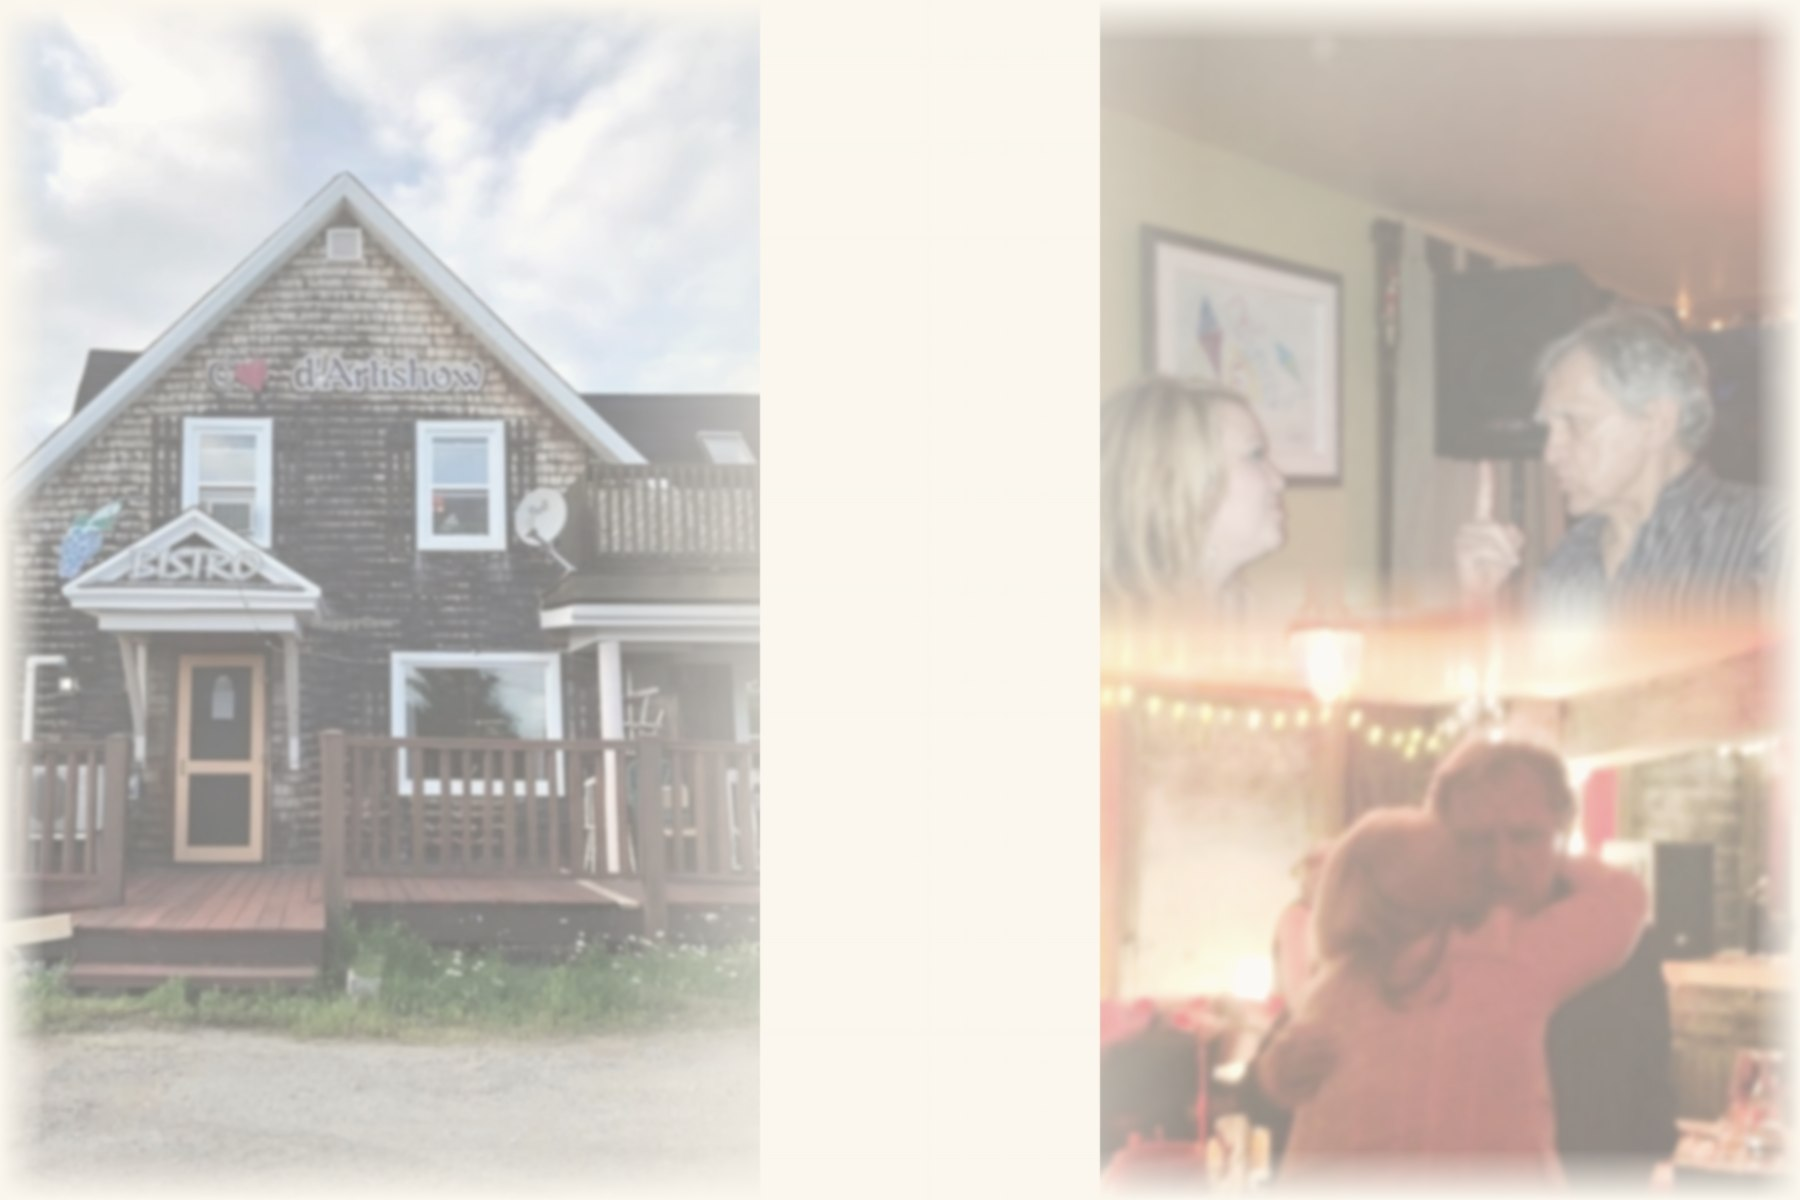
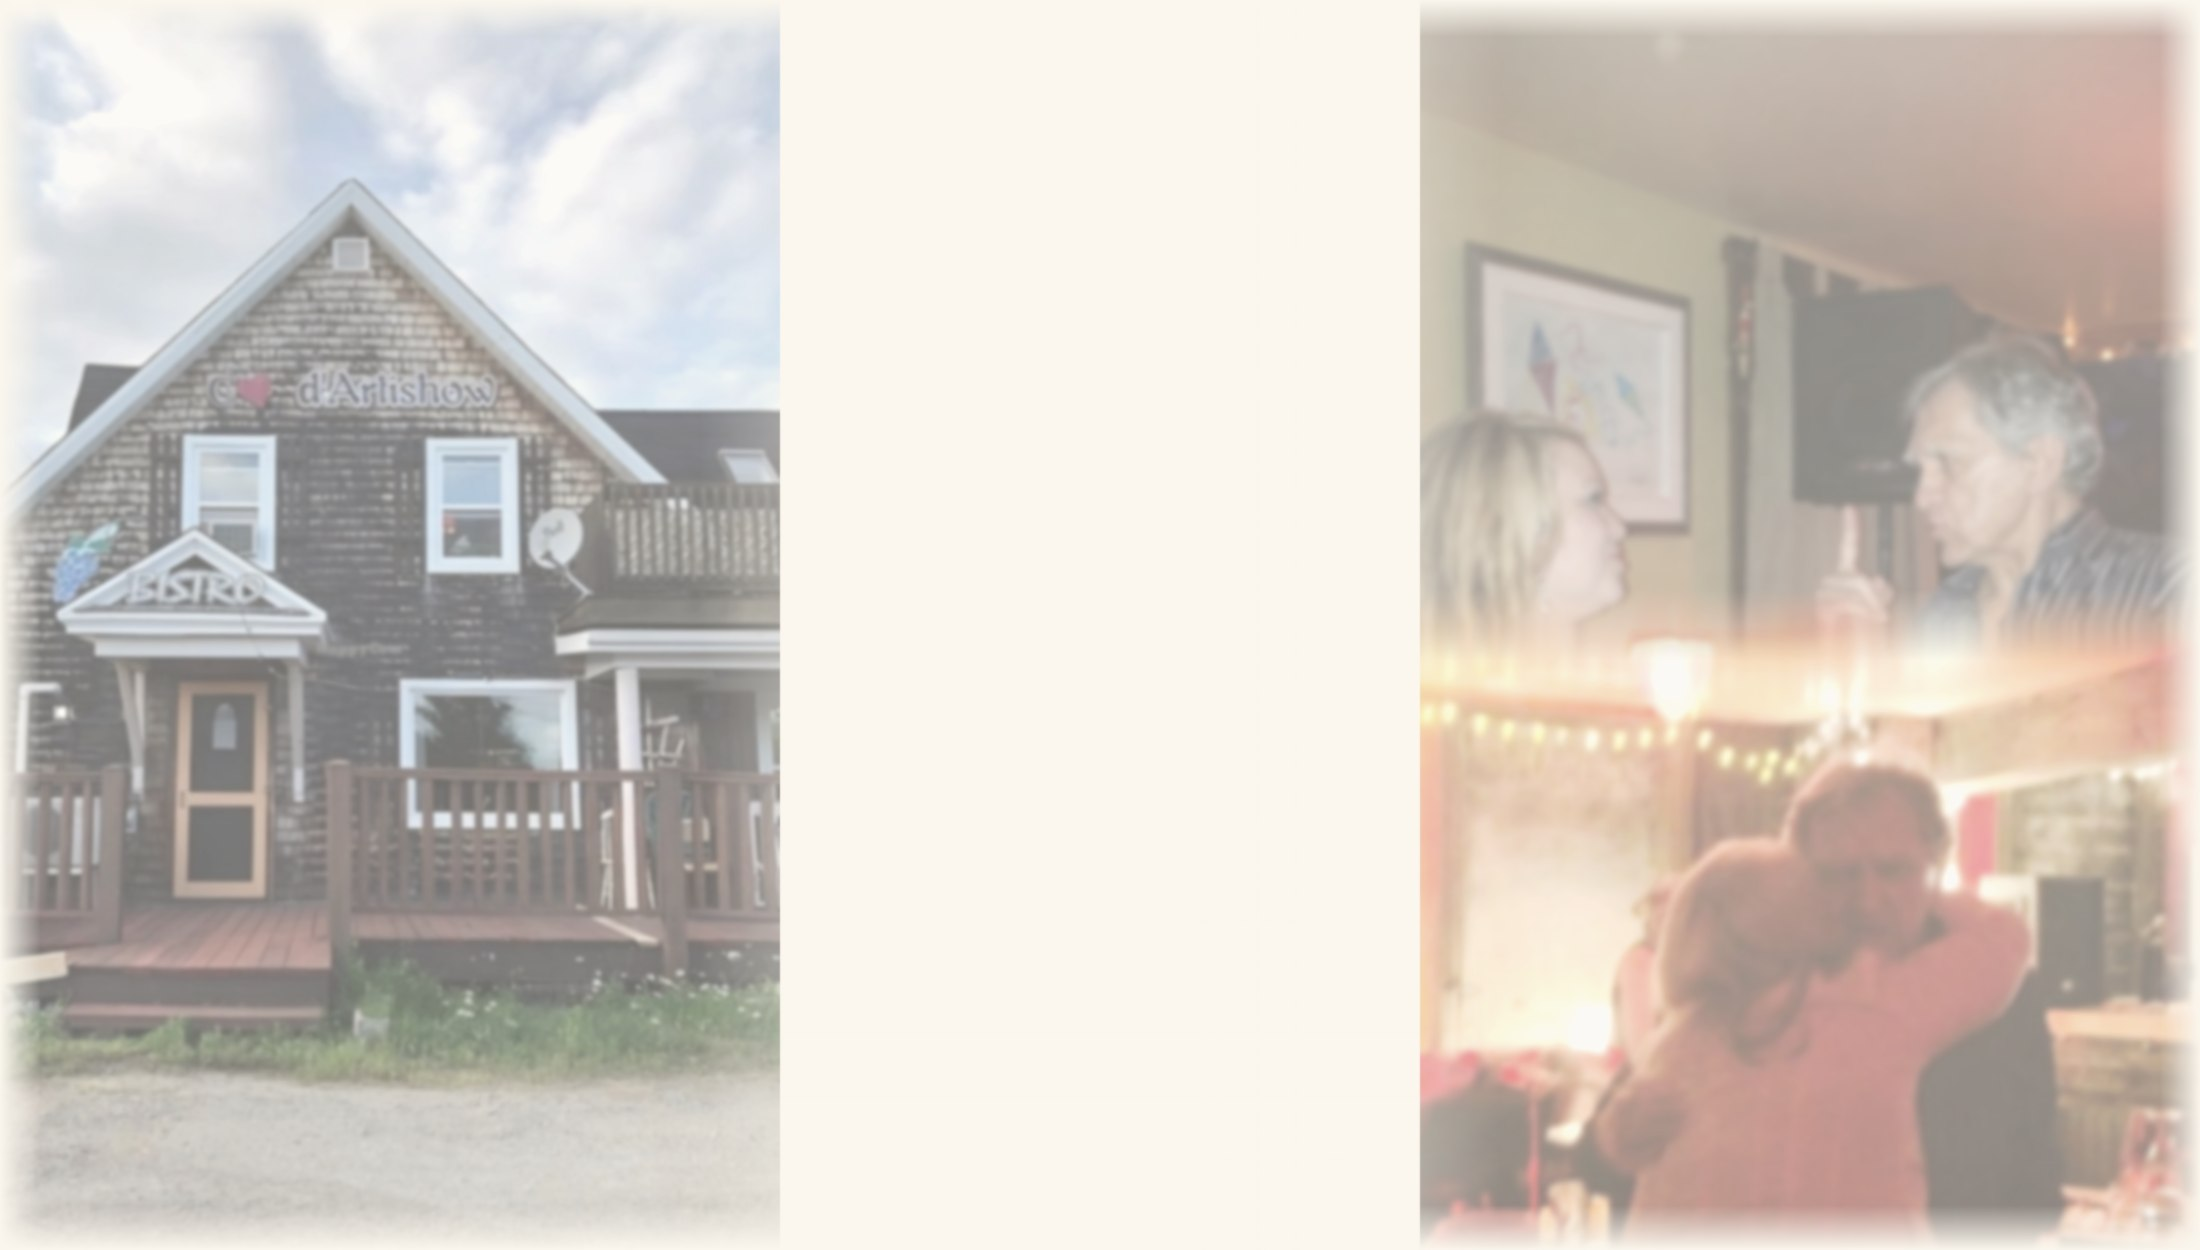
Calixte : panneau pleine largeur façon Beresford — bistro à gauche, texte au milieu sans toucher les photos, Calixte fondu à droite; version verticale pour téléphone

diff --git a/index.html b/index.html
@@ -4556,6 +4556,14 @@
     .calixte-dream > p { margin: 18px 0 0; font-size: 18px; line-height: 1.75; color: #2c2317; background: rgba(251,247,238,.55); border-radius: 14px; padding: 18px 20px; }
     .calixte-dream .calixte-photos figcaption { display: inline-block; background: rgba(251,247,238,.85); border-radius: 999px; padding: 3px 14px; color: #6d5a2e; }
     @media (max-width: 640px) { .calixte-dream { padding: 20px 14px 18px; } .calixte-dream > p { font-size: 17px; padding: 14px 15px; } }
+    @media (min-width: 761px) {
+      .calixte-dream { position: relative; left: 50%; transform: translateX(-50%); width: min(1140px, 95vw); padding: 44px 40px 40px; }
+      .calixte-dream .chapter-title { justify-content: center; text-align: center; }
+      .calixte-dream > p { max-width: 500px; margin-left: auto; margin-right: auto; }
+    }
+    @media (max-width: 760px) {
+      .calixte-dream { background: url('assets/calixte-fond-reve-mobile.jpg') center / cover no-repeat; }
+    }
     .calixte-story > p { margin: 20px 0 0; font-size: 18px; line-height: 1.75; color: var(--ink); }
     .calixte-photos { margin-top: 30px; display: grid; grid-template-columns: repeat(2, minmax(0, 1fr)); gap: 30px; align-items: start; }
     .calixte-photos figure { margin: 0 auto; width: min(100%, 330px); }
